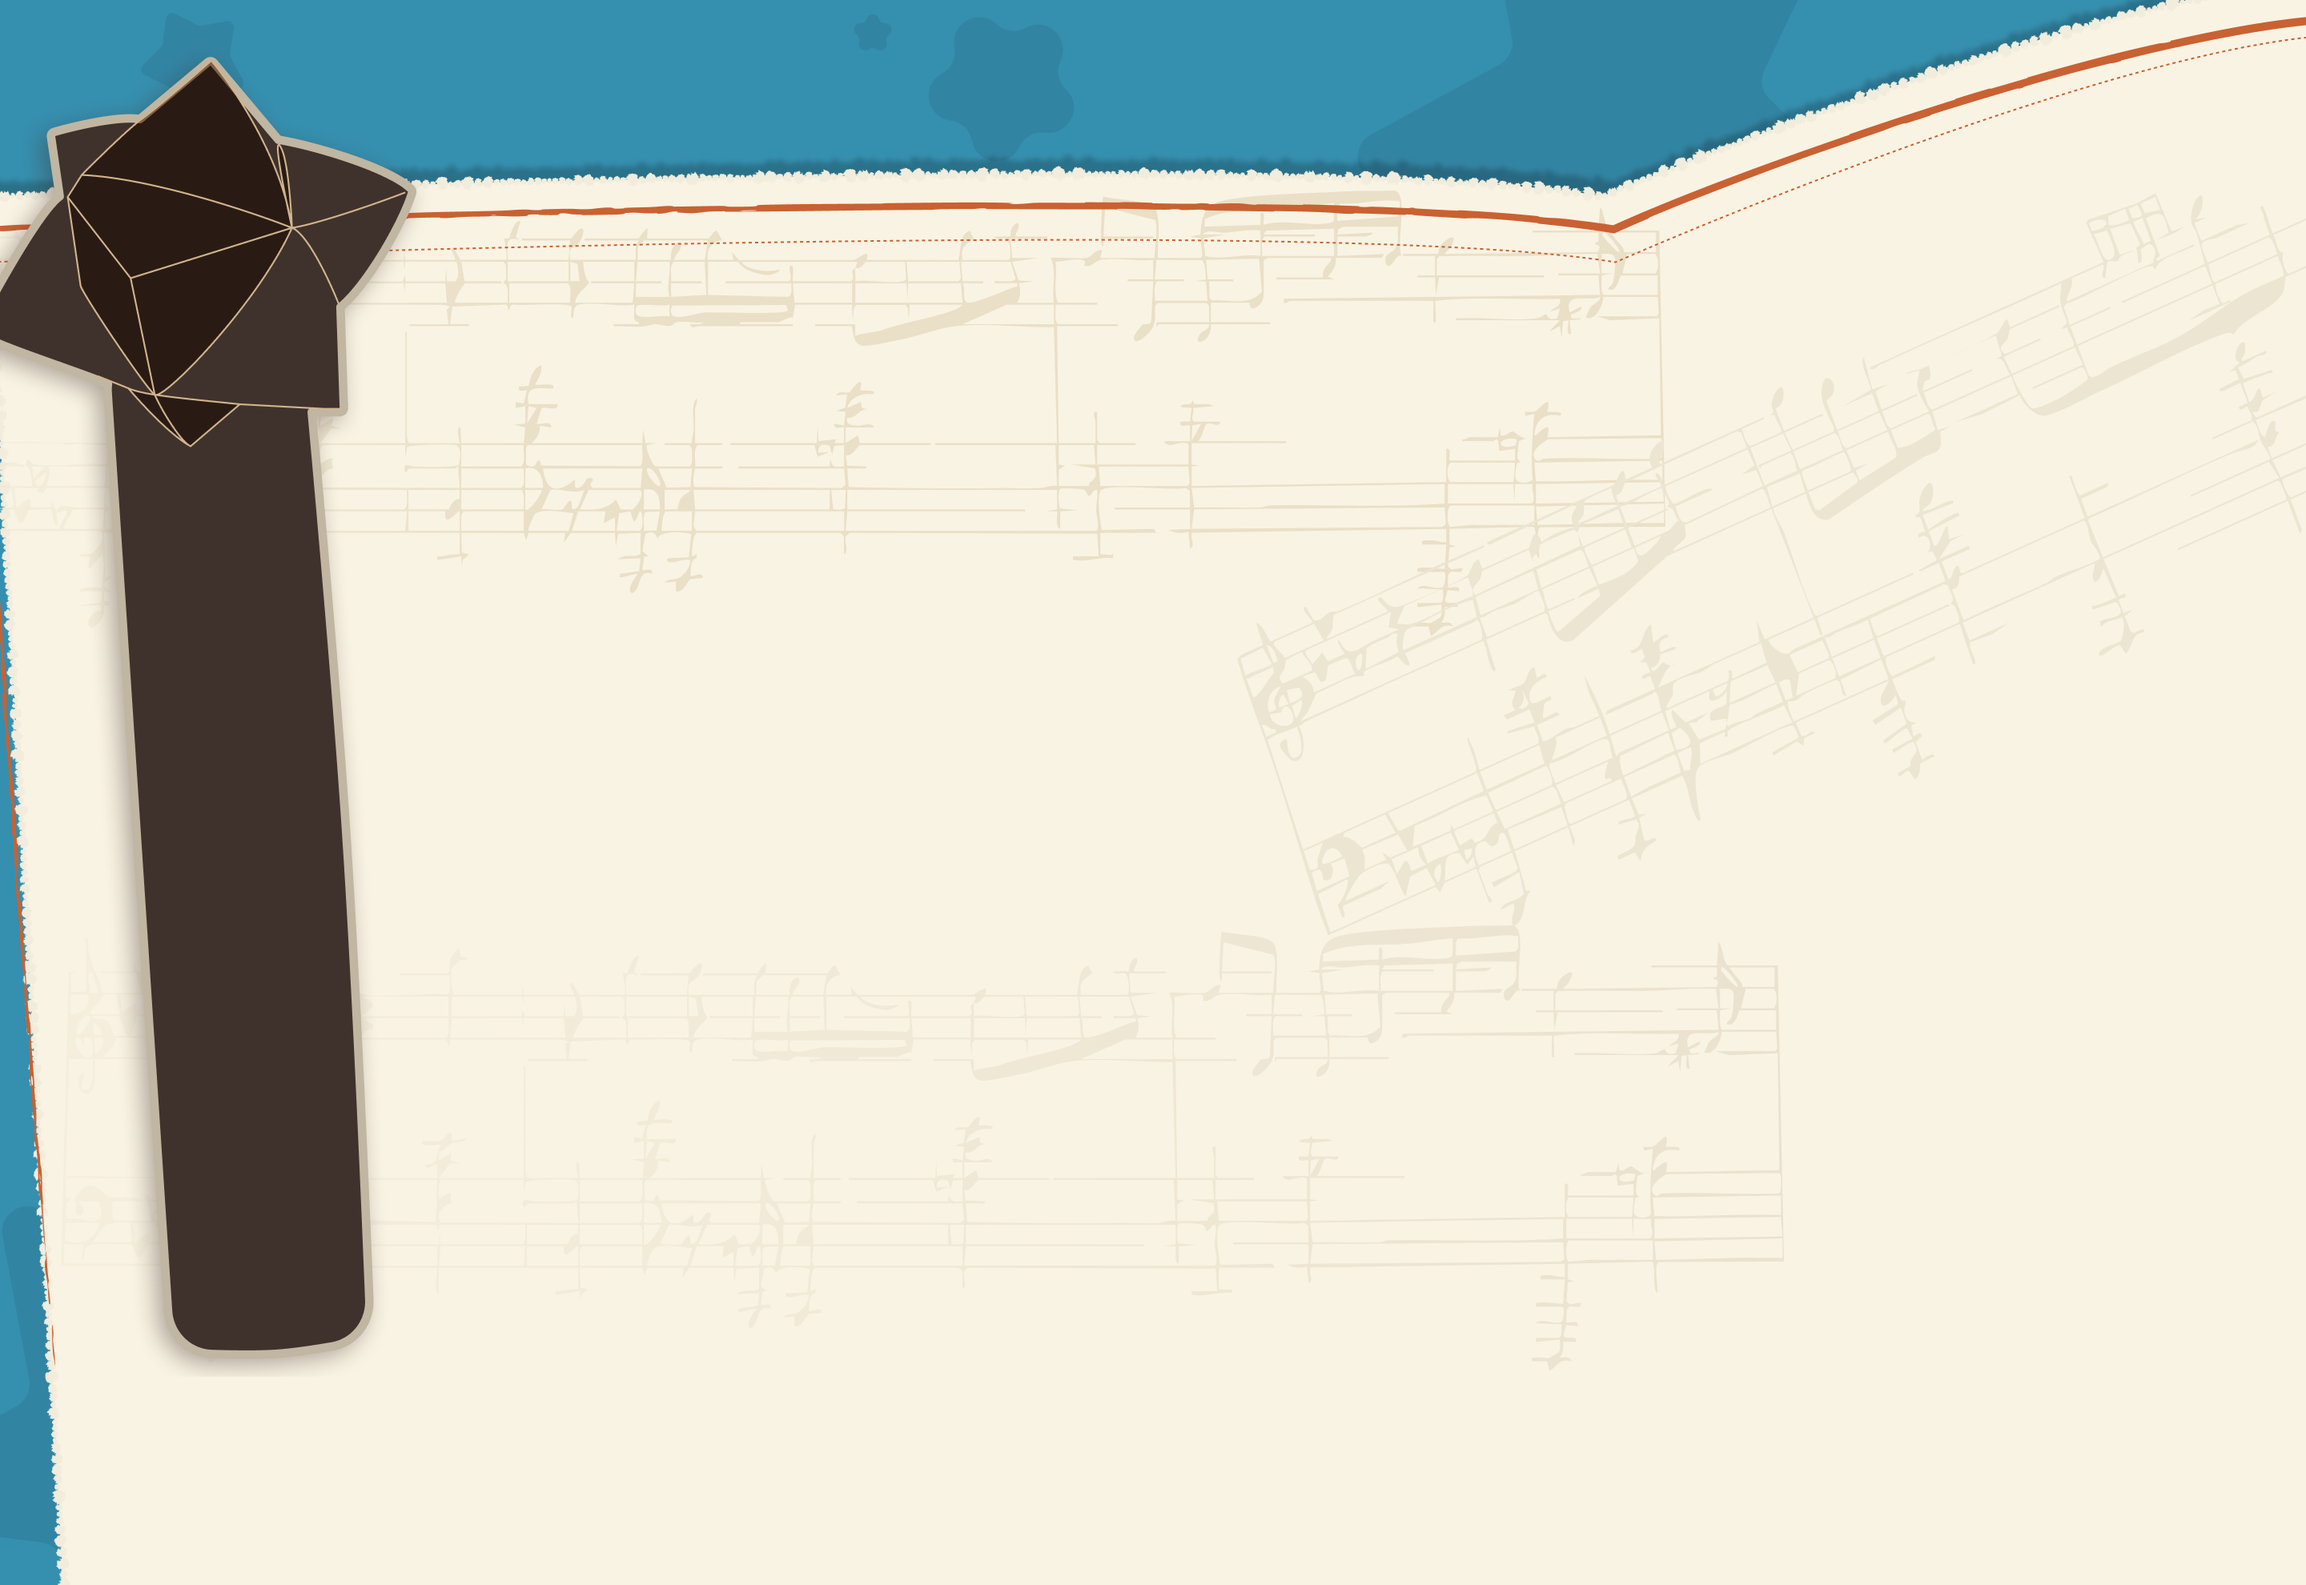
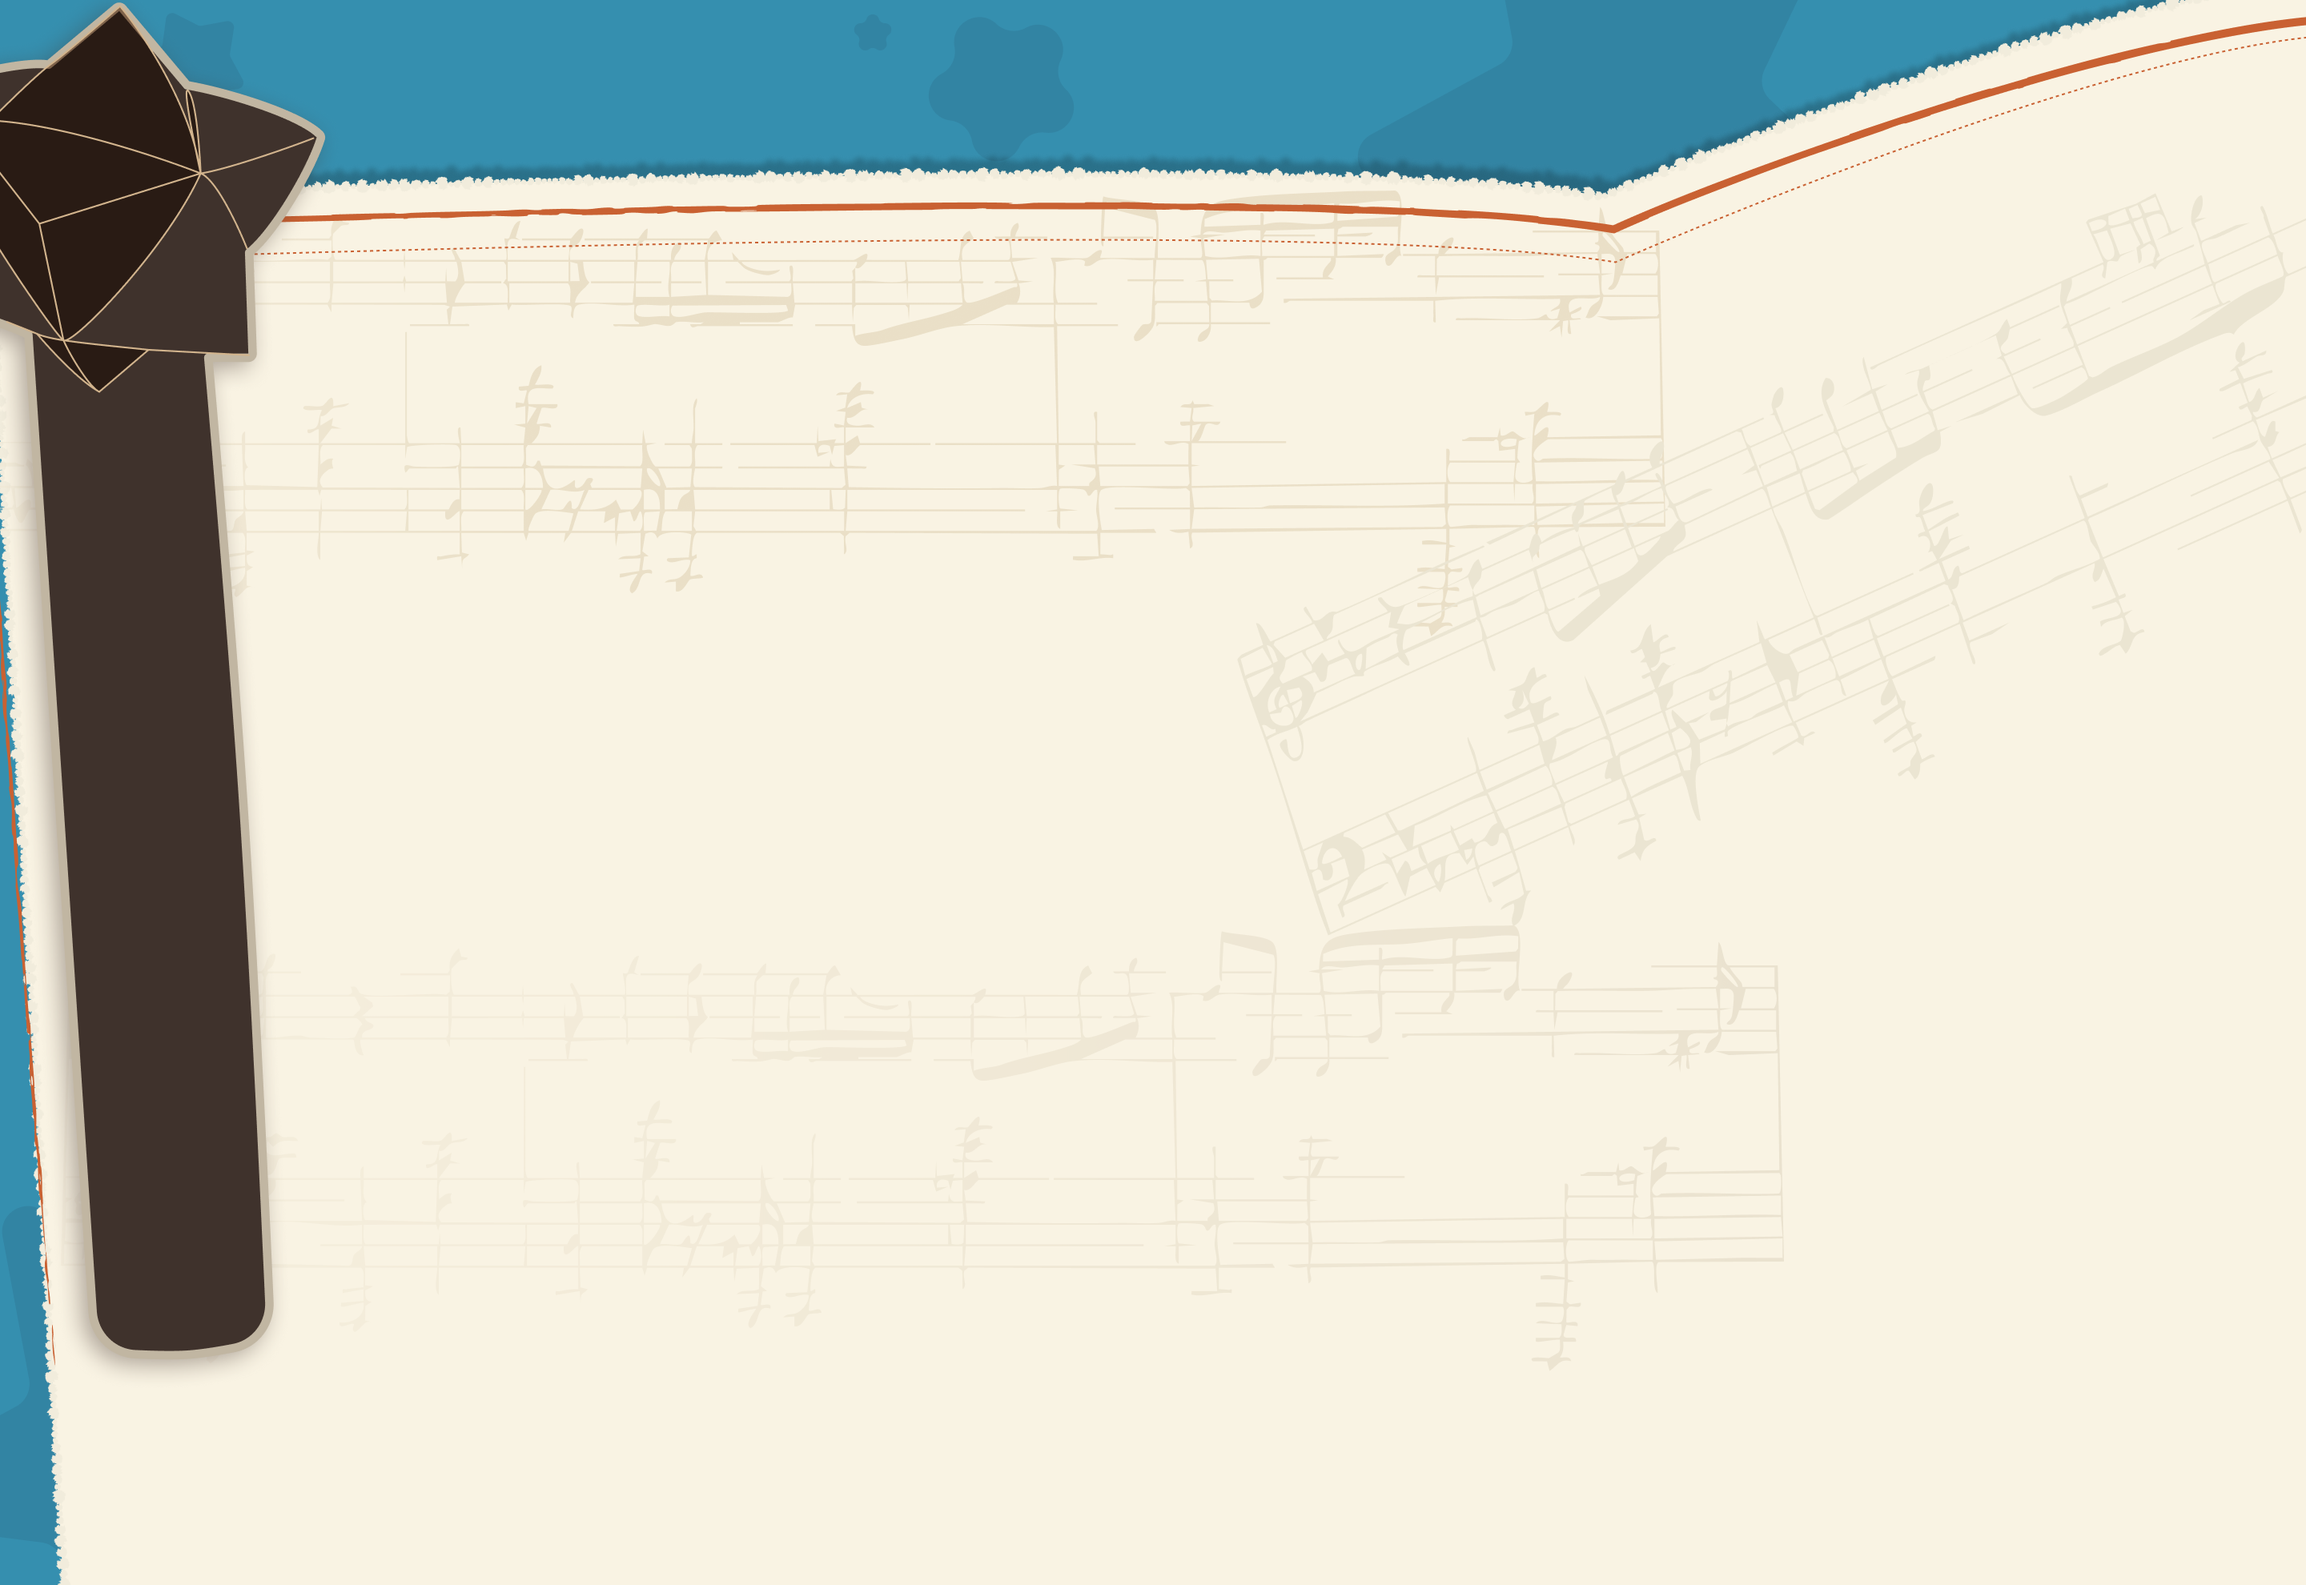
fix: 精灵选中与音频状态严格同步，修复多选时声音不跟手的 bug
- 新增 loadPresetIds(ids) 直接接受最新 id 列表加载音频，避免 useCallback 闭包捕获旧 state
- toggleSoundPreset 同步计算 nextIds，UI 与 audioEngine 在同一函数内用同一份数据更新
- 移除旧的 loadSelectedSoundPreset 和 setTimeout 触发方案（根本原因所在）
- 修复 makePitchProgress 声明顺序导致的 TS2448 编译错误（空白页问题）
- 神秘嘉宾图片更新、精灵插图空态和演奏台修饰图新增

Changed region(s): [[0.0, 0.0, 0.1875, 0.8626]]

diff --git a/desktop-app/src/App.tsx b/desktop-app/src/App.tsx
@@ -216,26 +216,6 @@ function App() {
     [audioEngine, isPlayingMelody, scaleRoot, sendHardware]
   );
 
-  const toggleSoundPreset = useCallback((id: string) => {
-    const isSelected = selectedSoundPresetIds.includes(id);
-    if (isSelected) {
-      audioEngine.removePresetLayers(id);
-      const remaining = selectedSoundPresetIds.filter((x) => x !== id);
-      audioEngine.ensembleMode = remaining.length > 1;
-      setSelectedSoundPresetIds(remaining);
-    } else {
-      setSelectedSoundPresetIds((prev) => [...prev, id]);
-    }
-  }, [audioEngine, selectedSoundPresetIds]);
-
-  const previewPresetSound = useCallback((presetId: string) => {
-    const preset = enabledSoundPresets.find((p) => p.id === presetId);
-    if (!preset) return;
-    const url = preset.file ?? preset.samples?.[0]?.file;
-    if (!url) return;
-    void audioEngine.previewSound(url, 1500);
-  }, [audioEngine]);
-
   const makePitchProgress = useCallback(
     (presetName: string): PitchBuildProgress =>
       (done, total) => {
@@ -245,8 +225,12 @@ function App() {
     []
   );
 
-  const loadSelectedSoundPreset = useCallback(async () => {
-    const presets = enabledSoundPresets.filter((p) => selectedSoundPresetIds.includes(p.id));
+  /**
+   * 加载指定的精灵 preset id 列表到 audioEngine。
+   * 不依赖 React state（避免闭包捕获旧值），直接接收最新 ids。
+   */
+  const loadPresetIds = useCallback(async (ids: string[]) => {
+    const presets = enabledSoundPresets.filter((p) => ids.includes(p.id));
     if (!presets.length) { setStatus('请先选择音色'); return; }
     const isEnsemble = presets.length > 1;
     audioEngine.clearSampleLayers();
@@ -276,12 +260,33 @@ function App() {
       setPitchBuild(null);
       setStatus(error instanceof Error ? error.message : '音色加载失败');
     }
-  }, [audioEngine, makePitchProgress, selectedSoundPresetIds, sendHardware]);
+  }, [audioEngine, makePitchProgress, sendHardware]);
+
+  const toggleSoundPreset = useCallback((id: string) => {
+    const isSelected = selectedSoundPresetIds.includes(id);
+    let nextIds: string[];
+    if (isSelected) {
+      nextIds = selectedSoundPresetIds.filter((x) => x !== id);
+    } else {
+      nextIds = [...selectedSoundPresetIds, id];
+    }
+    setSelectedSoundPresetIds(nextIds);
+    // 立即用最新的 ids 加载音频，不依赖 setState 异步更新后的闭包
+    void loadPresetIds(nextIds);
+  }, [selectedSoundPresetIds, loadPresetIds]);
+
+  const previewPresetSound = useCallback((presetId: string) => {
+    const preset = enabledSoundPresets.find((p) => p.id === presetId);
+    if (!preset) return;
+    const url = preset.file ?? preset.samples?.[0]?.file;
+    if (!url) return;
+    void audioEngine.previewSound(url, 1500);
+  }, [audioEngine]);
 
   // 自动加载第一个预设音色
   useEffect(() => {
-    if (selectedSoundPresetIds.length > 0) {
-      void loadSelectedSoundPreset();
+    if (firstSoundPresetId) {
+      void loadPresetIds([firstSoundPresetId]);
     }
     // eslint-disable-next-line react-hooks/exhaustive-deps
   }, []);
@@ -553,6 +558,11 @@ function App() {
   useEffect(() => {
     const onKeyDown = (event: KeyboardEvent) => {
       if (event.repeat) return;
+      // 神秘嘉宾弹窗打开时，或焦点在输入框 / 文本域时，不触发演奏快捷键
+      if (showGuestModal) return;
+      const tag = (event.target as HTMLElement)?.tagName;
+      if (tag === 'INPUT' || tag === 'TEXTAREA') return;
+
       const definition = noteByKey.get(event.key);
       if (definition) { event.preventDefault(); void triggerNote(definition.note); }
       if (event.key.toLowerCase() === 'r') { event.preventDefault(); void startRecording(); }
@@ -560,7 +570,7 @@ function App() {
     };
     window.addEventListener('keydown', onKeyDown);
     return () => window.removeEventListener('keydown', onKeyDown);
-  }, [handleGenerate, startRecording, triggerNote]);
+  }, [handleGenerate, showGuestModal, startRecording, triggerNote]);
 
   useEffect(
     () => () => {
@@ -586,8 +596,9 @@ function App() {
     return () => document.removeEventListener('mousedown', handleClickOutside);
   }, [showScalePicker, showPresetPicker]);
 
-  // 当前激活的精灵 = selectedSoundPresetIds 第一个
-  const activePresetId = selectedSoundPresetIds[0] ?? '';
+  // 当前激活的精灵 = selectedSoundPresetIds 中最新点击的（末尾）
+  // 逻辑：选中 A→B 时末尾是 B，展示 B；取消 B 后末尾是 A，展示 A；全取消展示兜底图
+  const activePresetId = selectedSoundPresetIds.at(-1) ?? '';
 
   // 音色 id → 中央舞台大插图映射（/ui/*插图.png）
   const SPRITE_ILLUSTRATION: Record<string, string> = {
@@ -639,7 +650,6 @@ function App() {
                 onClick={() => {
                   toggleSoundPreset(preset.id);
                   previewPresetSound(preset.id);
-                  window.setTimeout(() => void loadSelectedSoundPreset(), 100);
                 }}
               >
                 <div className="sprite-avatar">

diff --git a/desktop-app/src/styles.css b/desktop-app/src/styles.css
@@ -150,9 +150,10 @@ h1, h2, p { margin: 0; }
   flex-direction: column;
   /* 头像靠左对齐，名字自然跟在右侧 */
   align-items: flex-start;
-  gap: 6px;
-  /* 顶部让出宝石区（图高约 28%），左侧对齐魔杖 */
-  padding-top: 170px;
+  /* 设计稿精灵间距约 22px */
+  gap: 22px;
+  /* 顶部让出宝石区，与舞台插画顶部大致对齐 */
+  padding-top: 110px;
   padding-bottom: 6%;
   padding-left: 0;
   padding-right: 0;
@@ -160,6 +161,9 @@ h1, h2, p { margin: 0; }
   background: none;
   width: 100%;
   overflow: visible;
+  /* 以第一个头像为旋转中心，倾斜 4° 对齐魔杖深色条带 */
+  transform: translateX(-10px) rotate(-4deg);
+  transform-origin: 50px 148px;  /* 大约第一个头像中心：margin-left(12px)+半径(38px)=50px, padding-top(110px)+半径(38px)=148px */
 }
 
 .sprite-slot {
@@ -184,8 +188,9 @@ h1, h2, p { margin: 0; }
 /* Figma 头像组件：圆形 + 图片 + 两态描边 */
 .sprite-slot .sprite-avatar {
   position: relative;
-  width: 56px;
-  height: 56px;
+  /* 设计稿头像约 76px */
+  width: 76px;
+  height: 76px;
   flex-shrink: 0;
   border-radius: 50%;
   border: 3px solid #C1B6A2;   /* Figma default 态描边 */
@@ -196,8 +201,8 @@ h1, h2, p { margin: 0; }
   align-items: center;
   justify-content: center;
   transition: border-color 150ms ease, box-shadow 150ms ease;
-  /* 头像在魔杖区域内居中：魔杖宽约110px，头像56px，左边距=(110-56)/2=27px */
-  margin-left: 27px;
+  /* 头像在魔杖区域内居中：魔杖深色区宽约100px，头像76px，左边距=(100-76)/2=12px */
+  margin-left: 12px;
 }
 
 /* 头像里的 img 铺满圆形 */
@@ -236,15 +241,16 @@ h1, h2, p { margin: 0; }
 
 .sprite-slot .sprite-name {
   font-family: "SentyWatermelon", serif;
-  font-size: 16px;
-  /* 魔杖外侧，文字在亮色背景（羊皮纸）上用墨色 */
+  /* 设计稿名字约 24px */
+  font-size: 24px;
   color: var(--ink);
   line-height: 1.1;
 }
 
 .sprite-slot .sprite-sub {
   font-family: "SentyWatermelon", serif;
-  font-size: 11px;
+  /* 设计稿副文字约 14px */
+  font-size: 14px;
   color: var(--ink-faint);
   line-height: 1.1;
 }

diff --git a/desktop-app/src/content/soundLibrary.ts b/desktop-app/src/content/soundLibrary.ts
@@ -139,7 +139,7 @@ export const SOUND_PRESETS: SoundPreset[] = [
     trimStartMs: 0,
     trimEndMs: 0,
     gain: 1.0,
-    enabled: true,
+    enabled: false,
     credit: 'Team uploaded sample; confirm usage rights before public release.',
     tags: ['character', 'bouncy', 'squirrel', 'adult']
   },
